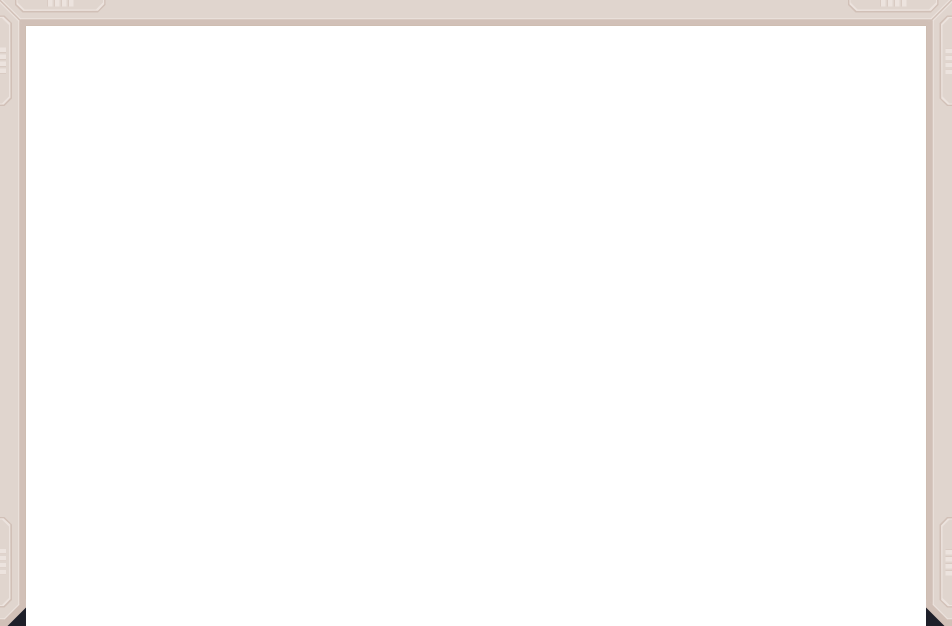
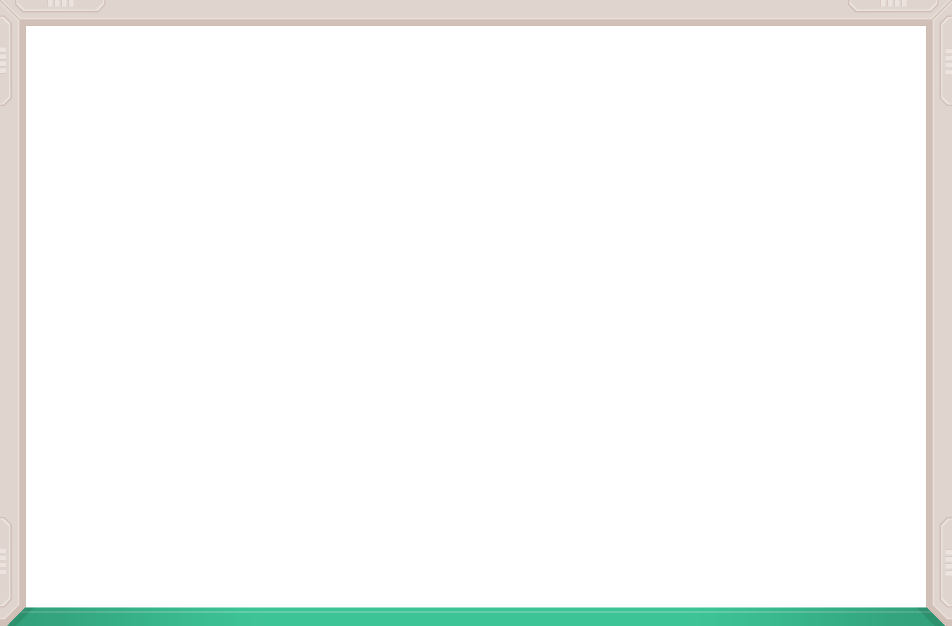
Barre du bas

Changed region(s): [[0.0, 0.9712, 1.0, 1.0]]

diff --git a/style.css b/style.css
@@ -1,38 +1,36 @@
 *{
-  /*border: 1px dashed red;*/
   margin: 0px;
   image-rendering: crisp-edges;
   image-rendering: -moz-crisp-edges;
 }
 
 body{
-width: 900px;
-height: 600px;
-padding: 26px 26px 0px 26px;
-background-color: #1E1F29;
-background-image: url("img/cadre.png");
-background-repeat: no-repeat;
+  width: 900px;
+  height: 600px;
+  padding: 26px 26px 0px 26px;
+  background-color: #1E1F29;
+  background-image: url("img/cadre.png");
+  background-repeat: no-repeat;
 }
 
 #boiteGlobale{
-  height: 600px;
+  height: 580px;
   width: 900px;
   background-image: url("img/bg300.png");
   background-repeat: repeat;
   padding: 0px;
 }
 
+#cadreAlt{
+  position: absolute;
+  margin:-26px;
+  opacity: 0;
+}
+
 #boiteBrique{
   position:relative;
   height: 200px;
   top: 50px;
-}
-
-#tube{
-  position: relative;
-  width: 100%;
-  height: 20px;
-  top: 350px;
 }
 
 /*******************************************************************************
@@ -43,7 +41,7 @@ background-repeat: no-repeat;
   position: absolute;
   height: 44px;
   width: 256px;
-  top: 566px;
+  top: 576px;
   overflow: hidden;
 }
 
@@ -69,7 +67,7 @@ background-repeat: no-repeat;
 }
 
 #imgVie{
-  background-color: rgb(50,250,50);
+  background-color: rgb(50,200,150);
   height: 100%;
 }
 
@@ -97,7 +95,7 @@ background-repeat: no-repeat;
 }
 
 .metal{
-  background-image: url("img/brique_metal.png");
+  background-image: url("img/brique_grise.png");
 }
 
 .cassable{
@@ -105,22 +103,22 @@ background-repeat: no-repeat;
 }
 
 .pv1{
-  background-color: blue;
+  background-color: #1a9e71;
 }
 .pv2{
-  background-color: teal;
+  background-color: #336699;
 }
 .pv3{
-  background-color: green;
+  background-color: #333366;
 }
 .pv4{
-  background-color: yellow;
+  background-color: #663366;
 }
 .pv5{
-  background-color: orange;
+  background-color: #54102e;
 }
 .pv6{
-  background-color: red;
+  background-color: #2a0404;
 }
 
 .blink{

diff --git a/balle.js b/balle.js
@@ -21,10 +21,10 @@ var balle = {
   ************************** Définition des propriétés *************************
   *****************************************************************************/
 
-  x: 300,
-  y: 300,
+  x: 463,
+  y: 555,
   rayon: 13,
-  couleur: "lightgrey",
+  couleur: "#e1c048",
   div: window.document.querySelector("#balle"),
 
   /*---------------------- Propriétés pour le mouvement ----------------------*/
@@ -52,14 +52,27 @@ var balle = {
     if (this.x <= 26 || this.x >= 900) {
       this.changementTrajectoire(true);
     }
-    if (this.y <= 26  || this.y >= 600) {
+    if (this.y <= 26) {
       this.changementTrajectoire(false);
+    }
+    if (this.y >= 580) {
+      palet.changementVie(-15);
+      this.changementTrajectoire(false);
+      var cadreAlt = document.querySelector("#cadreAlt").style;
+      cadreAlt.opacity = 1;
+      disparitionAlt = window.setInterval(function(){
+        if (cadreAlt.opacity > 0) {
+          cadreAlt.opacity = cadreAlt.opacity - 0.05;
+        } else {
+          clearInterval(disparitionAlt);
+        }
+      }.bind(this),80);
     }
   },
 
   setup: function(){
     this.div.style.backgroundColor = this.couleur;
-    this.changementTrajectoire(true);
+    this.changementTrajectoire(false);
     this.bouger = window.setInterval(
       function(){
         this.x = this.x + this.vx;

diff --git a/niveaux.js b/niveaux.js
@@ -10,23 +10,23 @@ var vide = [
 ];
 
 var niveau0 = [
-  [0,0,1,0,0,0,0,0,1,0,0,0],
-  [0,1,0,1,0,0,0,1,0,1,0,0],
-  [0,0,1,0,1,0,1,0,0,0,1,0],
-  [0,0,0,1,0,1,0,0,0,0,0,1],
-  [0,0,0,0,1,0,0,0,0,0,1,0],
-  [0,0,0,0,0,1,0,0,0,1,0,0],
-  [0,0,0,0,0,0,1,0,1,0,0,0],
-  [0,0,0,0,0,0,0,1,0,0,0,0],
+  [1,1,1,1,1,1,1,1,1,1,1,1],
+  [2,2,2,2,2,2,2,2,2,2,2,2],
+  [3,3,3,3,3,3,3,3,3,3,3,3],
+  [2,2,2,2,2,2,2,2,2,2,2,2],
+  [1,1,1,1,1,1,1,1,1,1,1,1],
+  [0,0,0,0,0,0,0,0,0,0,0,0],
+  [0,0,0,0,0,0,0,0,0,0,0,0],
+  ["metal",0,"metal",0,"metal",0,0,"metal",0,"metal",0,"metal"],
 ];
 
 var niveau1 = [
+  [6,6,6,6,6,6,6,6,6,6,6,6],
   [5,5,5,5,5,5,5,5,5,5,5,5],
   [4,4,4,4,4,4,4,4,4,4,4,4],
   [3,3,3,3,3,3,3,3,3,3,3,3],
   [2,2,2,2,2,2,2,2,2,2,2,2],
   [1,1,1,1,1,1,1,1,1,1,1,1],
-  [0,0,0,0,0,0,0,0,0,0,0,0],
   [0,0,0,0,0,0,0,0,0,0,0,0],
   ["metal",0,"metal",0,"metal",0,0,"metal",0,"metal",0,"metal"],
 ];

diff --git a/palet.js b/palet.js
@@ -25,7 +25,7 @@ var palet = {
   imgVie: window.document.querySelector("#imgVie"),
 
   vie: 100, // On commence avec une barre de vie complète.
-  x: 200, // par rapport à la gauche.
+  x: 346, // par rapport à la gauche.
   vitessePalet: 4, // en px déplacé à chaque interval.
   deplacementGauche: false,
   deplacementDroite: false,
@@ -79,7 +79,7 @@ var palet = {
         }
       }
       this.imgVie.style.width = this.vie + "%";
-      this.imgVie.style.backgroundColor = "rgb(" + (250 - (this.vie * 2)) + "," + ((this.vie * 2) + 50) + ",50)";
+      this.imgVie.style.backgroundColor = "rgb(" + (250 - (this.vie * 2)) + "," + ((this.vie * 1.5) + 50) + ",150)";
     }.bind(this),20);
   },
 

diff --git a/script.js b/script.js
@@ -4,7 +4,7 @@
 
 palet.setup(); // lancement de l'animation du palet.
 balle.setup(); // lancement de l'animation de la balle.
-chargerUneMap(niveau1);
+chargerUneMap(niveau0);
 
 /*******************************************************************************
 ********************************* Keybindings **********************************

diff --git a/index.html b/index.html
@@ -9,6 +9,7 @@
 </head>
 <body>
   <div id="boiteGlobale">
+    <img src="img/cadre_alt.png" id="cadreAlt">
 
     <div id="boiteBrique"></div>
 
@@ -22,7 +23,6 @@
         <img src="img/palet.png" id="imgPalet">
       </div>
     </div>
-    <img src="img/tube.png" alt="" id="tube">
   </div>
 </body>
 
